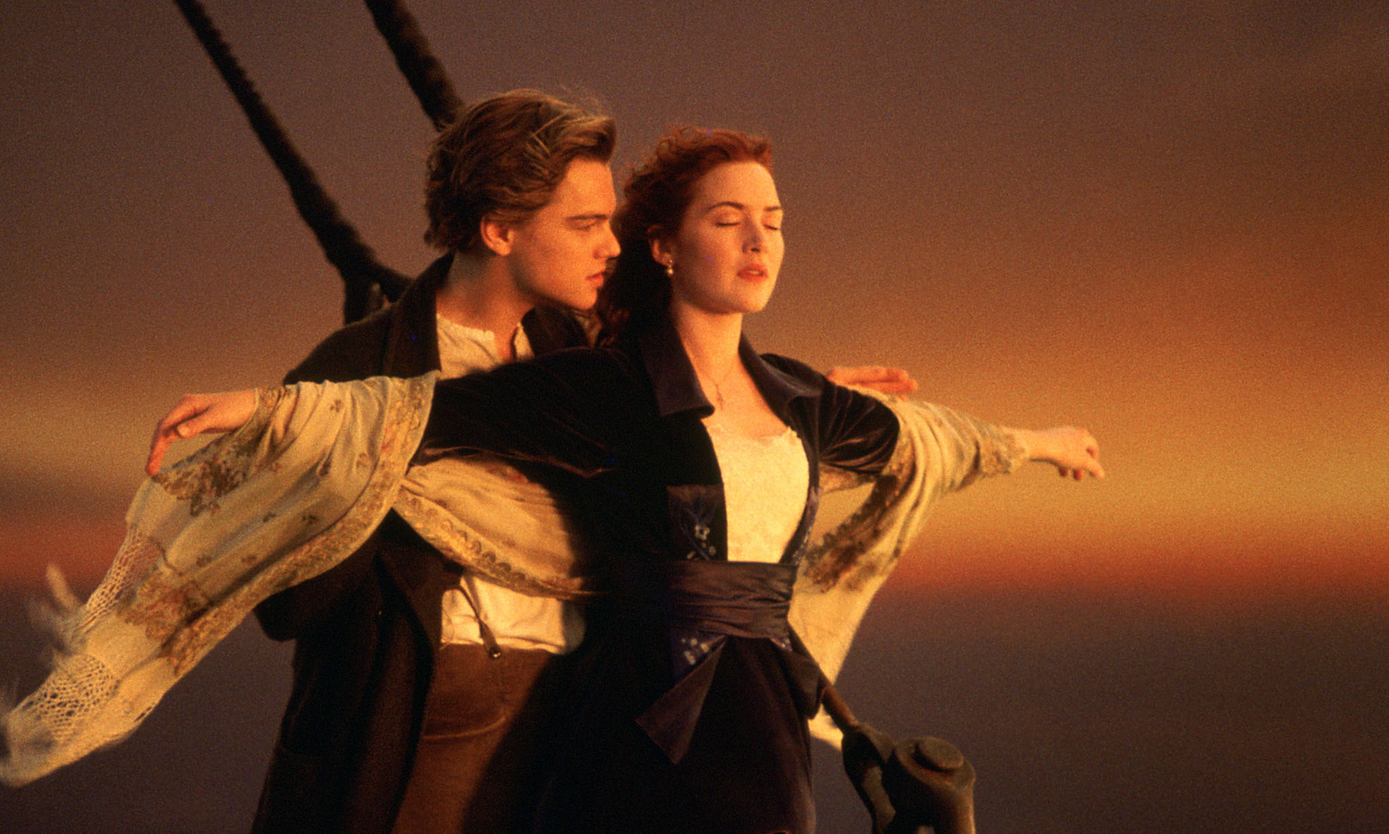
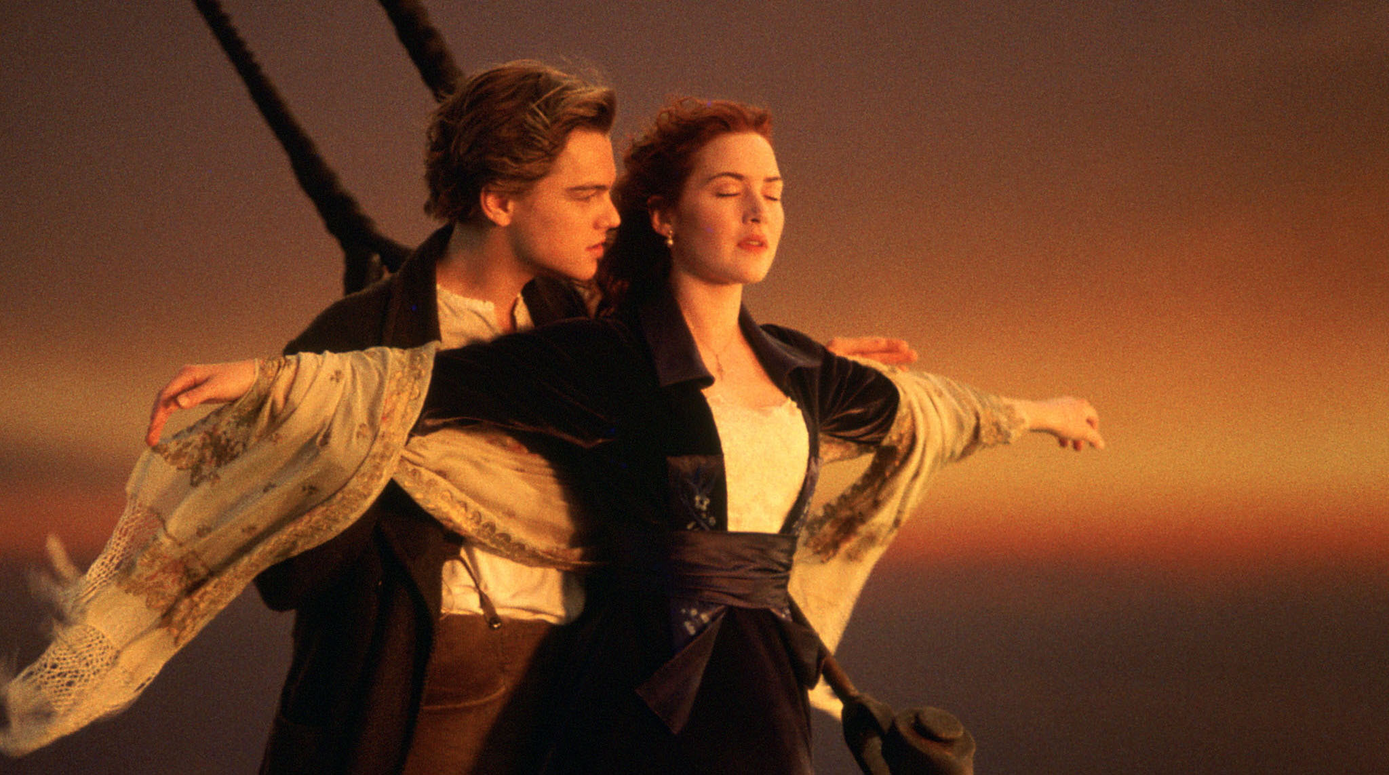
Changed and made better Carousel

diff --git a/index.html b/index.html
@@ -150,7 +150,7 @@
         <img src="movie1.jpg" class="d-block w-100" alt="...">
       </div>
       <div class="carousel-item">
-        <img src="movie3.jpg" class="d-block w-100" alt="...">
+        <img src="movie4.jpg" class="d-block w-100" alt="...">
       </div>
     </div>
     <button class="carousel-control-prev" type="button" data-bs-target="#carouselExampleFade" data-bs-slide="prev">
